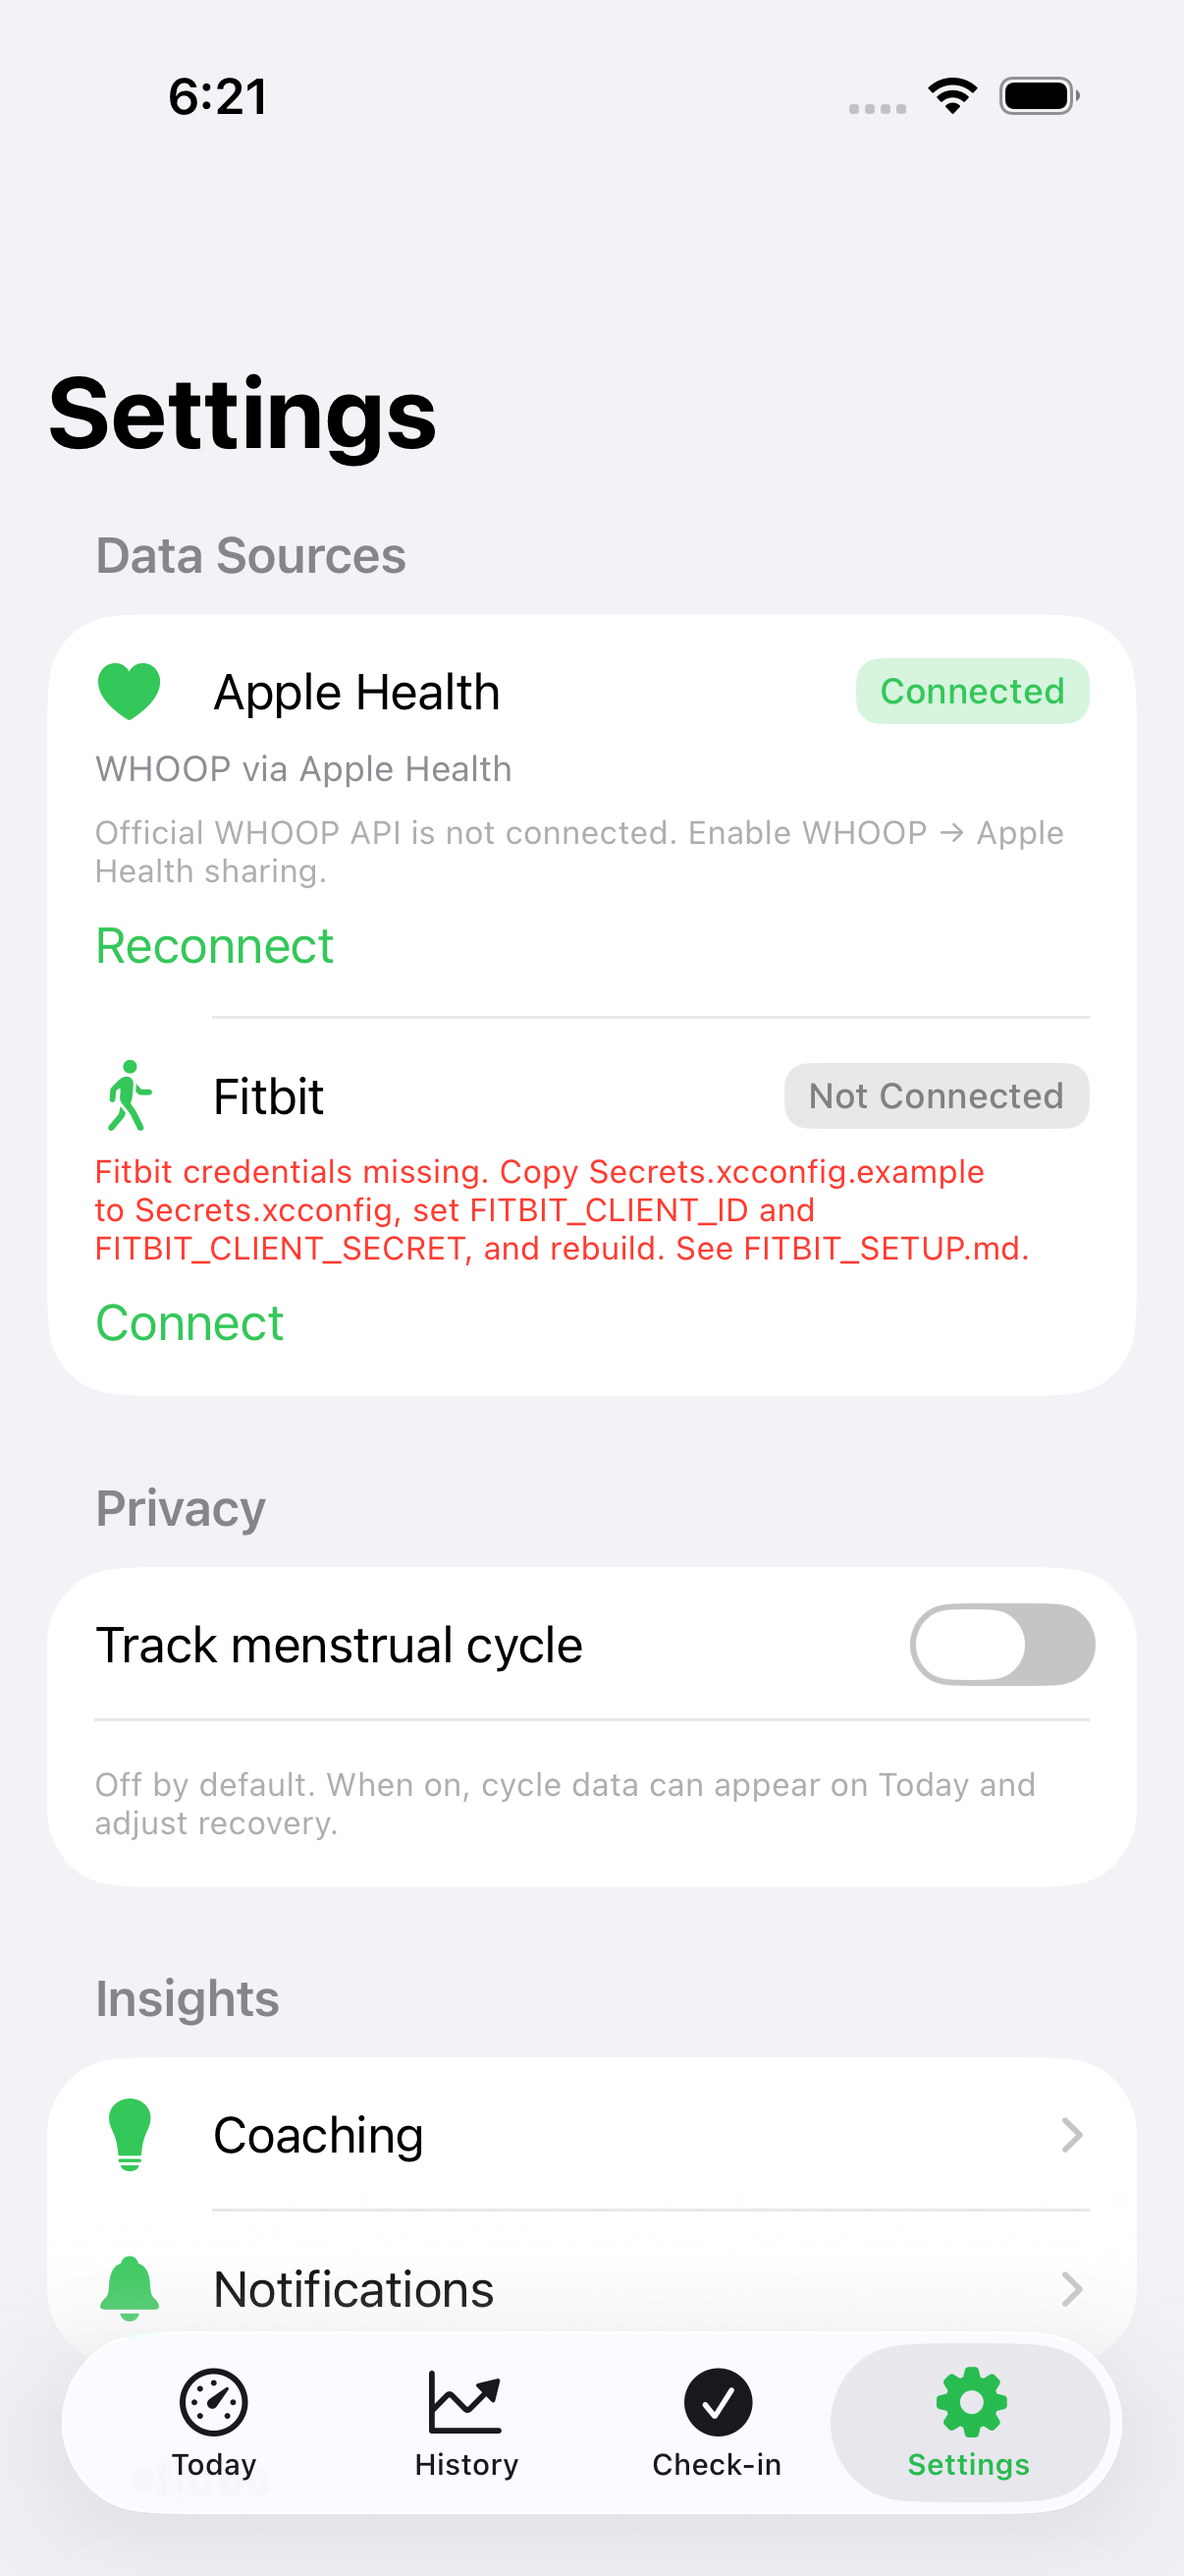
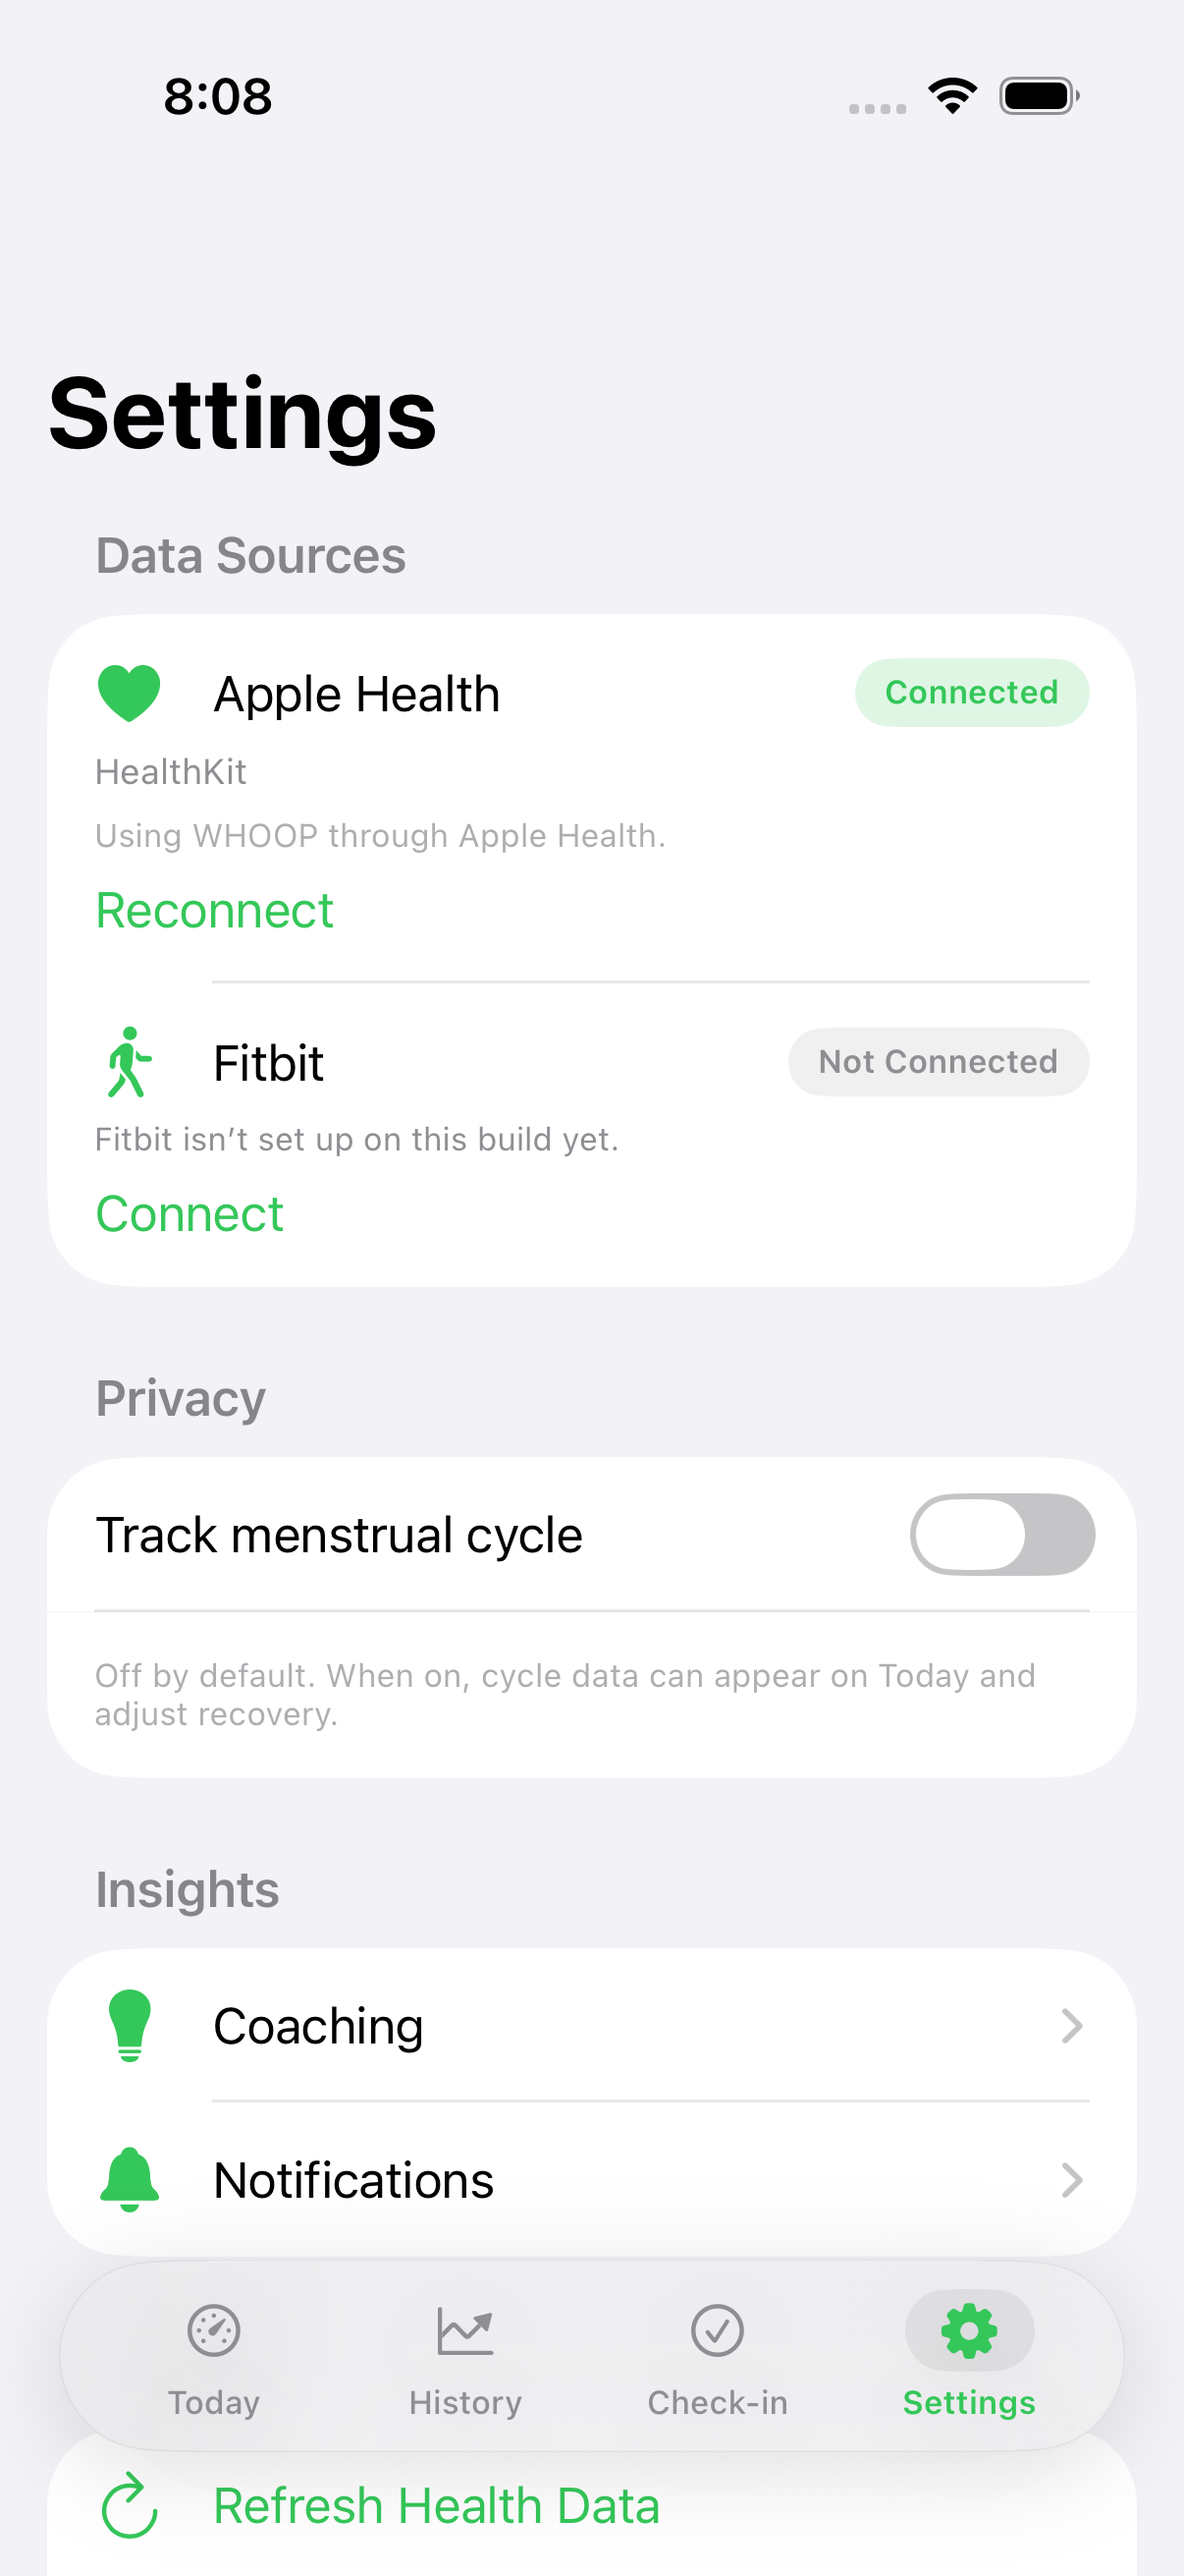
feat(settings): Apple-style sources copy (Honest #56) (#74)
Consumer Fitbit/WHOOP cues (no Secrets.xcconfig dump), capsule
Connected chips, and tab.* a11y ids so floating pill tabs stay
UITestable. Local proof: .audit/verify-settings-sources.png.

diff --git a/ReadinessTrackerUITests/SurfacesUITests.swift b/ReadinessTrackerUITests/SurfacesUITests.swift
@@ -10,6 +10,25 @@ final class SurfacesUITests: XCTestCase {
         app.launch()
     }
 
+
+    /// Floating pill tabs are not UITabBar — prefer tab.<name> ids.
+    private func tapMainTab(_ title: String) {
+        let id = "tab.\(title.lowercased())"
+        let byId = app.descendants(matching: .any)[id].firstMatch
+        if byId.waitForExistence(timeout: 3) {
+            byId.tap()
+            return
+        }
+        let byButton = app.buttons[title]
+        if byButton.waitForExistence(timeout: 3) {
+            byButton.tap()
+            return
+        }
+        let legacy = app.tabBars.buttons[title]
+        XCTAssertTrue(legacy.waitForExistence(timeout: 8), "Missing tab \(title)")
+        legacy.tap()
+    }
+
     func testTodayHeroBright() throws {
         XCTAssertTrue(app.staticTexts["Readiness"].waitForExistence(timeout: 8))
         XCTAssertTrue(app.staticTexts["HealthKit"].exists)
@@ -130,7 +149,7 @@ final class SurfacesUITests: XCTestCase {
     }
 
     func testCheckInTabSurface() throws {
-        app.tabBars.buttons["Check-in"].tap()
+        tapMainTab("Check-in")
         // Daily Check-in: Morning/Evening segmented picker + Save chrome under -ui-fixture.
         let morning = app.buttons["Morning"]
         let evening = app.buttons["Evening"]
@@ -150,7 +169,7 @@ final class SurfacesUITests: XCTestCase {
     func testTrendsDetailSurface() throws {
         // History → Browse Trends → TrendDetailView (period chips + Avg/Min/Max + scrub).
         _ = app.staticTexts["Readiness"].waitForExistence(timeout: 8)
-        let historyTab = app.tabBars.buttons["History"]
+        let historyTab = app.descendants(matching: .any)["tab.history"].firstMatch
         XCTAssertTrue(historyTab.waitForExistence(timeout: 8), "History tab")
         historyTab.tap()
         let landed =
@@ -204,7 +223,7 @@ final class SurfacesUITests: XCTestCase {
         // History → day row → DayDetailView (WHOOP night-detail: header metrics, stage % chips, hypnogram, cycles).
         // Alternate path Today → Sleep Stages also lands on elevated Sleep Analysis chrome.
         _ = app.staticTexts["Readiness"].waitForExistence(timeout: 8)
-        let historyTab = app.tabBars.buttons["History"]
+        let historyTab = app.descendants(matching: .any)["tab.history"].firstMatch
         XCTAssertTrue(historyTab.waitForExistence(timeout: 8), "History tab")
         historyTab.tap()
         let landed =
@@ -233,7 +252,7 @@ final class SurfacesUITests: XCTestCase {
         }
         if !opened {
             // Fallback: Today → Sleep Stages → Sleep Analysis (same elevated night chrome).
-            app.tabBars.buttons["Today"].tap()
+            tapMainTab("Today")
             _ = app.staticTexts["Readiness"].waitForExistence(timeout: 6)
             revealText("Sleep Stages")
             let stagesCard = app.buttons["Sleep Stages"].exists ? app.buttons["Sleep Stages"] : app.staticTexts["Sleep Stages"]
@@ -265,7 +284,7 @@ final class SurfacesUITests: XCTestCase {
     func testHistoryTabSurface() throws {
         // Wait for Today chrome before switching tabs (heavier Body tiles can delay first paint).
         _ = app.staticTexts["Readiness"].waitForExistence(timeout: 8)
-        let historyTab = app.tabBars.buttons["History"]
+        let historyTab = app.descendants(matching: .any)["tab.history"].firstMatch
         XCTAssertTrue(historyTab.waitForExistence(timeout: 8), "History tab")
         historyTab.tap()
         // History: source picker + Weekly Report + Trends under -ui-fixture (14 appleWatch days).
@@ -338,7 +357,7 @@ final class SurfacesUITests: XCTestCase {
 
     func testWeeklyReportSurface() throws {
         // History → Weekly Report sheet: fixture seeds 14 appleWatch days (≥3 needed).
-        app.tabBars.buttons["History"].tap()
+        tapMainTab("History")
         XCTAssertTrue(app.staticTexts["Weekly Report"].waitForExistence(timeout: 8))
         let row = app.buttons["Weekly Report"].exists ? app.buttons["Weekly Report"] : app.staticTexts["Weekly Report"]
         row.tap()
@@ -593,7 +612,7 @@ final class SurfacesUITests: XCTestCase {
 
     func testCoachingSurface() throws {
         // Settings → Coaching: ranked insight cards under -ui-fixture (not empty state).
-        app.tabBars.buttons["Settings"].tap()
+        tapMainTab("Settings")
         let coaching = app.staticTexts["Coaching"].exists ? app.staticTexts["Coaching"] : app.buttons["Coaching"]
         XCTAssertTrue(coaching.waitForExistence(timeout: 8), "Coaching row")
         coaching.tap()
@@ -613,7 +632,7 @@ final class SurfacesUITests: XCTestCase {
     }
 
     func testSettingsSourcesConnectRows() throws {
-        app.tabBars.buttons["Settings"].tap()
+        tapMainTab("Settings")
         XCTAssertTrue(app.staticTexts["Apple Health"].waitForExistence(timeout: 8))
         XCTAssertTrue(app.staticTexts["HealthKit"].exists)
         let connect = app.descendants(matching: .any)["settings.healthkit.connect"].firstMatch

diff --git a/ReadinessTracker/Views/ContentView.swift b/ReadinessTracker/Views/ContentView.swift
@@ -304,7 +304,7 @@ struct SettingsView: View {
                             .font(.caption)
                             .foregroundStyle(RTColor.secondaryText)
                         if healthKit.dataSource.localizedCaseInsensitiveContains("whoop") {
-                            Text("Official WHOOP API is not connected. Enable WHOOP → Apple Health sharing.")
+                            Text("Using WHOOP through Apple Health.")
                                 .font(.caption2)
                                 .foregroundStyle(RTColor.tertiaryText)
                         }
@@ -330,7 +330,7 @@ struct SettingsView: View {
                         if let message = fitbit.errorMessage, !fitbit.isAuthenticated {
                             Text(message)
                                 .font(.caption2)
-                                .foregroundStyle(RTColor.warning)
+                                .foregroundStyle(RTColor.secondaryText)
                         }
                         HStack {
                             Button(fitbit.isAuthenticated ? "Refresh" : "Connect") {
@@ -435,12 +435,14 @@ struct StatusBadge: View {
     
     var body: some View {
         Text(isActive ? "Connected" : "Not Connected")
-            .font(.caption.weight(.medium))
-            .padding(.horizontal, 8)
-            .padding(.vertical, 4)
-            .background(isActive ? Color.green.opacity(0.2) : Color.gray.opacity(0.2))
-            .foregroundColor(isActive ? .green : .secondary)
-            .cornerRadius(8)
+            .font(.caption2.weight(.semibold))
+            .padding(.horizontal, 10)
+            .padding(.vertical, 5)
+            .foregroundStyle(isActive ? RTColor.optimal : RTColor.secondaryText)
+            .background(
+                Capsule()
+                    .fill(isActive ? RTColor.optimal.opacity(0.16) : Color.primary.opacity(0.06))
+            )
     }
 }
 

diff --git a/ReadinessTracker/Services/FitbitManager.swift b/ReadinessTracker/Services/FitbitManager.swift
@@ -22,7 +22,7 @@ class FitbitManager: ObservableObject {
         self.clientId = id
         self.clientSecret = secret
         if !Self.areCredentialsConfigured(clientId: id, clientSecret: secret) {
-            errorMessage = "Fitbit credentials missing. Copy Secrets.xcconfig.example to Secrets.xcconfig, set FITBIT_CLIENT_ID and FITBIT_CLIENT_SECRET, and rebuild. See FITBIT_SETUP.md."
+            errorMessage = "Fitbit isn’t set up on this build yet."
         }
     }
 
@@ -51,7 +51,7 @@ class FitbitManager: ObservableObject {
     /// Builds the Fitbit OAuth URL, or nil when credentials are missing/placeholder.
     var authURL: URL? {
         guard hasValidCredentials else {
-            errorMessage = "Fitbit credentials missing. Copy Secrets.xcconfig.example to Secrets.xcconfig, set FITBIT_CLIENT_ID and FITBIT_CLIENT_SECRET, and rebuild. See FITBIT_SETUP.md."
+            errorMessage = "Fitbit isn’t set up on this build yet."
             return nil
         }
         var components = URLComponents(string: "https://www.fitbit.com/oauth2/authorize")!
@@ -91,7 +91,7 @@ class FitbitManager: ObservableObject {
         request.setValue("application/x-www-form-urlencoded", forHTTPHeaderField: "Content-Type")
         
         guard hasValidCredentials else {
-            errorMessage = "Fitbit credentials missing. Copy Secrets.xcconfig.example to Secrets.xcconfig, set FITBIT_CLIENT_ID and FITBIT_CLIENT_SECRET, and rebuild. See FITBIT_SETUP.md."
+            errorMessage = "Fitbit isn’t set up on this build yet."
             return
         }
         let credentials = "\(clientId):\(clientSecret)".data(using: .utf8)!.base64EncodedString()

diff --git a/ReadinessTracker/Design/FloatingPillTabBar.swift b/ReadinessTracker/Design/FloatingPillTabBar.swift
@@ -44,6 +44,7 @@ struct FloatingPillTabBar: View {
                 }
                 .buttonStyle(.plain)
                 .accessibilityLabel(item.title)
+                .accessibilityIdentifier("tab.\(item.title.lowercased())")
                 .accessibilityAddTraits(selection == item.id ? .isSelected : [])
             }
         }
